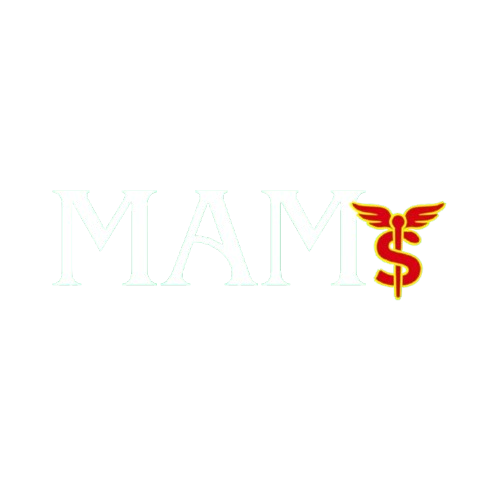
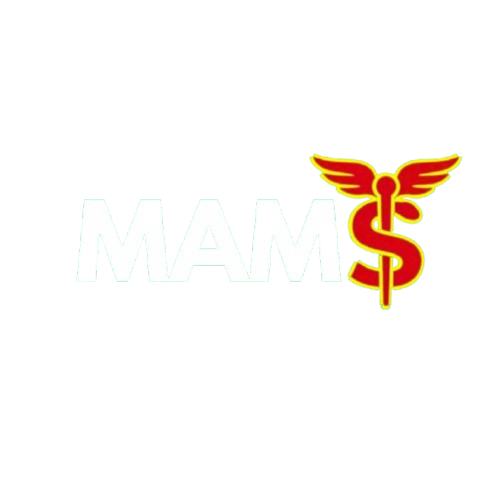
ddf
dfdfdf

diff --git a/src/pages/LoginPage.vue b/src/pages/LoginPage.vue
@@ -123,8 +123,8 @@ const handleLogin = async (credentials) => {
 .logo {
   align-items: center;
   justify-content: center;
-  margin-top: 130px;
-  margin-bottom: -130px;
+  margin-top: 200px;
+  margin-bottom: -140px;
   display: block;
   width: 180px;
   height: auto;
@@ -134,7 +134,7 @@ const handleLogin = async (credentials) => {
 .logo2 {
   margin-left: 20px;
   display: block;
-  width: 410px;
+  width: 500px;
   height: auto;
 }
 </style>
